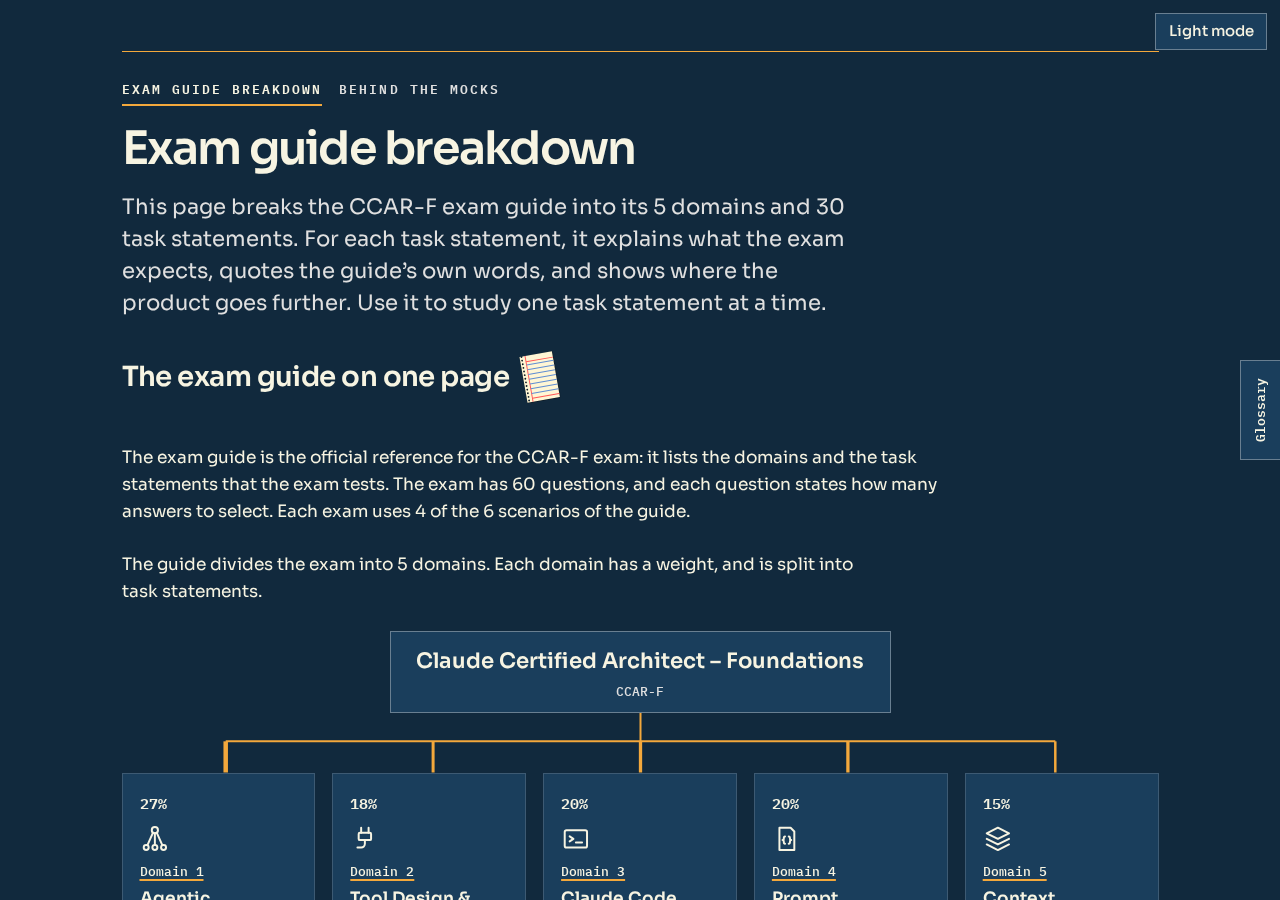
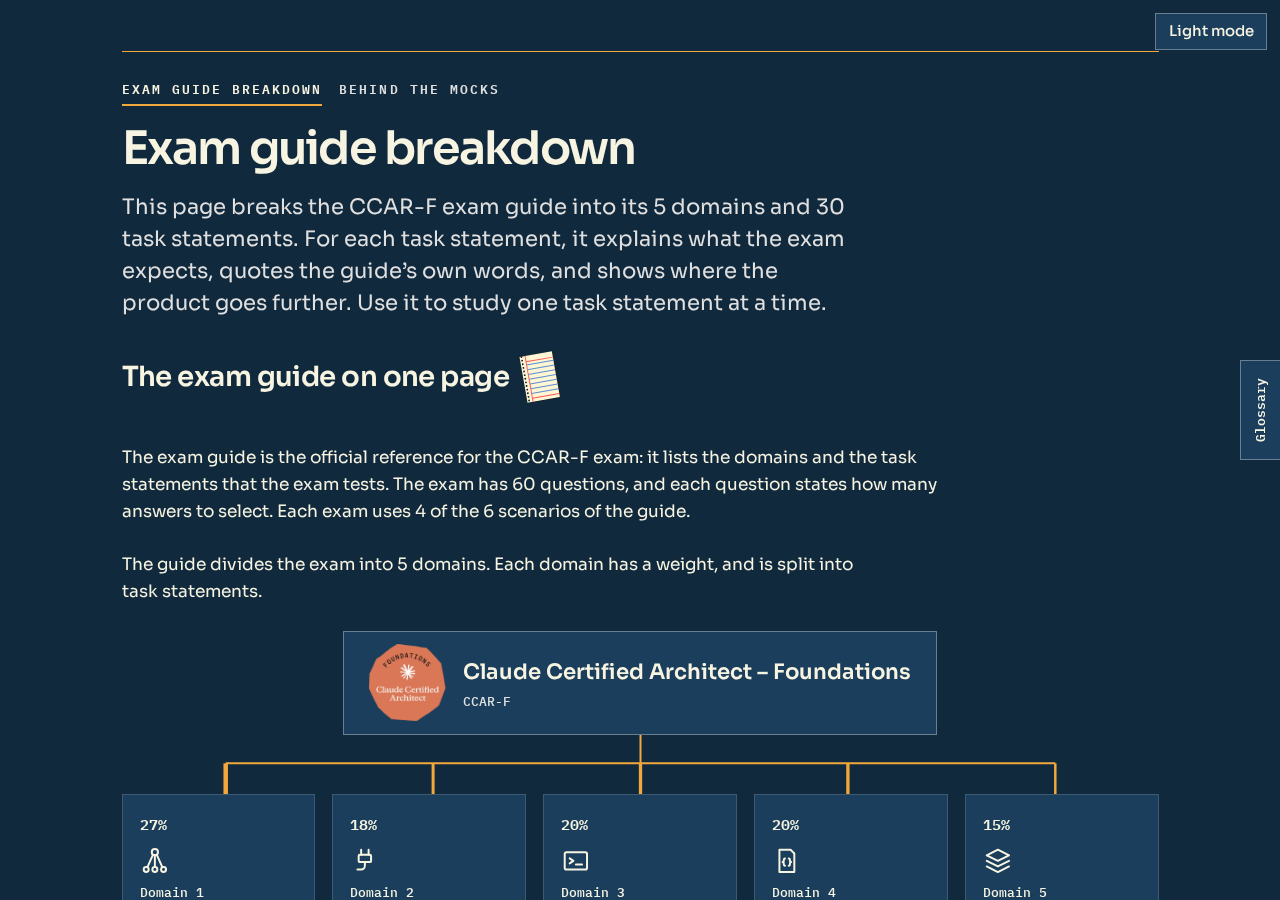
Tab 1, batch 2 of the notes of the owner: a dropdown arrow on the scenario rows, the CCAR-F badge in the exam box, the products as a bold list, Fig. C drawings centred, a box for newcomers, The exam tests as a list (owner, 15 October 2026). check-pages prints All checks passed for tab 1
Claude-Session: https://claude.ai/code/session_01UTkgDqrwTLkESy2KzoY348

Changed region(s): [[0.0938, 0.6844, 0.9062, 1.0]]

diff --git a/academy/pages/exam-guide-breakdown.html b/academy/pages/exam-guide-breakdown.html
@@ -204,7 +204,7 @@
   <p><span class="fact" tabindex="0" role="button" data-card="m-what">The exam guide is the official reference for the CCAR-F exam: it lists the domains and the task statements that the exam tests.</span> <span class="fact" tabindex="0" role="button" data-card="m-items">The exam has 60 questions</span>, <span class="fact" tabindex="0" role="button" data-card="m-format">and each question states how many answers to select.</span> <span class="fact" tabindex="0" role="button" data-card="m-struct">Each exam uses 4 of the 6 scenarios of the guide.</span></p>
   <p>The guide divides the exam into 5 domains. Each domain has a weight, and is split into task statements.</p>
   <figure data-figure="map">
-    <div class="exam-top"><p class="exam-node">Claude Certified Architect &ndash; Foundations <span class="ve-label">CCAR-F</span></p><svg class="exam-lines" viewBox="0 0 1000 84" preserveAspectRatio="none" aria-hidden="true" focusable="false"><path d="M500 0 V40 M100 40 H900" stroke-width="2"/><path d="M100 40 V84" stroke-width="4.5"/><path d="M300 40 V84" stroke-width="3.0"/><path d="M500 40 V84" stroke-width="3.3"/><path d="M700 40 V84" stroke-width="3.3"/><path d="M900 40 V84" stroke-width="2.5"/></svg></div>
+    <div class="exam-top"><p class="exam-node"><img class="exam-badge" src="icons/ccar-f-badge.png" alt="The badge of the Claude Certified Architect &ndash; Foundations" width="340" height="340"><span>Claude Certified Architect &ndash; Foundations <span class="ve-label">CCAR-F</span></span></p><svg class="exam-lines" viewBox="0 0 1000 84" preserveAspectRatio="none" aria-hidden="true" focusable="false"><path d="M500 0 V40 M100 40 H900" stroke-width="2"/><path d="M100 40 V84" stroke-width="4.5"/><path d="M300 40 V84" stroke-width="3.0"/><path d="M500 40 V84" stroke-width="3.3"/><path d="M700 40 V84" stroke-width="3.3"/><path d="M900 40 V84" stroke-width="2.5"/></svg></div>
     <div class="tmap"><div class="tcol"><p class="tw"><span class="fact" tabindex="0" role="button" data-card="m-d1">27%</span></p><svg class="d-icon" viewBox="0 0 24 24" aria-hidden="true" focusable="false" fill="none" stroke="currentColor" stroke-width="1.6" stroke-linecap="round" stroke-linejoin="round"><circle cx="12" cy="5" r="2.5"/><circle cx="5" cy="19" r="2"/><circle cx="12" cy="19" r="2"/><circle cx="19" cy="19" r="2"/><path d="M12 7.5V17M10.5 7l-4.5 10M13.5 7l4.5 10"/></svg><p class="ve-label"><a href="#domain-1">Domain 1</a></p><p class="tname">Agentic Architecture &amp; Orchestration</p><p class="tsum">Agents that run themselves.</p><ol class="tlist"><li><a href="#ts-1-1"><span class="pid">1.1</span> <span>The loop runs while Claude asks for tools</span></a></li><li><a href="#ts-1-2"><span class="pid">1.2</span> <span>The coordinator splits the work and routes every result</span></a></li><li><a href="#ts-1-3"><span class="pid">1.3</span> <span>A subagent sees none of the coordinator&#x27;s conversation</span></a></li><li><a href="#ts-1-4"><span class="pid">1.4</span> <span>A required order needs a code gate, not a prompt</span></a></li><li><a href="#ts-1-5"><span class="pid">1.5</span> <span>Hooks block a tool call or clean its result</span></a></li><li><a href="#ts-1-6"><span class="pid">1.6</span> <span>Chain fixed steps for known work, adapt for open work</span></a></li><li><a href="#ts-1-7"><span class="pid">1.7</span> <span>Resume valid context, fork to compare, restart when stale</span></a></li></ol></div><div class="tcol"><p class="tw"><span class="fact" tabindex="0" role="button" data-card="m-d2">18%</span></p><svg class="d-icon" viewBox="0 0 24 24" aria-hidden="true" focusable="false" fill="none" stroke="currentColor" stroke-width="1.6" stroke-linecap="round" stroke-linejoin="round"><path d="M9 3v4M15 3v4"/><rect x="7" y="7" width="10" height="6" rx="1"/><path d="M12 13v3a3 3 0 0 1-3 3H6"/></svg><p class="ve-label"><a href="#domain-2">Domain 2</a></p><p class="tname">Tool Design &amp; MCP Integration</p><p class="tsum">Tools that Claude can use well.</p><ol class="tlist"><li><a href="#ts-2-1"><span class="pid">2.1</span> <span>The description decides which tool Claude picks</span></a></li><li><a href="#ts-2-2"><span class="pid">2.2</span> <span>Errors must say what failed and whether a retry helps</span></a></li><li><a href="#ts-2-3"><span class="pid">2.3</span> <span>Give each agent only the tools that its role needs</span></a></li><li><a href="#ts-2-4"><span class="pid">2.4</span> <span>Share MCP servers in .mcp.json, with secrets in variables</span></a></li><li><a href="#ts-2-5"><span class="pid">2.5</span> <span>Grep finds content, Glob finds files, Edit needs unique text</span></a></li></ol></div><div class="tcol"><p class="tw"><span class="fact" tabindex="0" role="button" data-card="m-d3">20%</span></p><svg class="d-icon" viewBox="0 0 24 24" aria-hidden="true" focusable="false" fill="none" stroke="currentColor" stroke-width="1.6" stroke-linecap="round" stroke-linejoin="round"><rect x="3" y="5" width="18" height="14" rx="1.5"/><path d="M7 10l3 2-3 2M12 15h5"/></svg><p class="ve-label"><a href="#domain-3">Domain 3</a></p><p class="tname">Claude Code Configuration &amp; Workflows</p><p class="tsum">Claude Code for a team.</p><ol class="tlist"><li><a href="#ts-3-1"><span class="pid">3.1</span> <span>Team instructions live in the project CLAUDE.md, split into files</span></a></li><li><a href="#ts-3-2"><span class="pid">3.2</span> <span>Share skills through the repository, and set how they run</span></a></li><li><a href="#ts-3-3"><span class="pid">3.3</span> <span>A rule with a glob loads only for matching files</span></a></li><li><a href="#ts-3-4"><span class="pid">3.4</span> <span>Plan first when the change is big or unclear</span></a></li><li><a href="#ts-3-5"><span class="pid">3.5</span> <span>Refine with examples, failing tests and an interview</span></a></li><li><a href="#ts-3-6"><span class="pid">3.6</span> <span>In CI, run <code>claude -p</code> with a schema and context</span></a></li></ol></div><div class="tcol"><p class="tw"><span class="fact" tabindex="0" role="button" data-card="m-d4">20%</span></p><svg class="d-icon" viewBox="0 0 24 24" aria-hidden="true" focusable="false" fill="none" stroke="currentColor" stroke-width="1.6" stroke-linecap="round" stroke-linejoin="round"><path d="M6 3h9l3 3v15H6z"/><path d="M10.5 10c-1 0-1 .8-1 1.6s0 1.4-1 1.4c1 0 1 .6 1 1.4s0 1.6 1 1.6M13.5 10c1 0 1 .8 1 1.6s0 1.4 1 1.4c-1 0-1 .6-1 1.4s0 1.6-1 1.6"/></svg><p class="ve-label"><a href="#domain-4">Domain 4</a></p><p class="tname">Prompt Engineering &amp; Structured Output</p><p class="tsum">Prompts that give reliable output.</p><ol class="tlist"><li><a href="#ts-4-1"><span class="pid">4.1</span> <span>Name what to report, not how careful to be</span></a></li><li><a href="#ts-4-2"><span class="pid">4.2</span> <span>Few-shot examples fix what instructions alone leave inconsistent</span></a></li><li><a href="#ts-4-3"><span class="pid">4.3</span> <span>A schema guarantees the form, not the values</span></a></li><li><a href="#ts-4-4"><span class="pid">4.4</span> <span>Retry with the exact errors, but not for missing facts</span></a></li><li><a href="#ts-4-5"><span class="pid">4.5</span> <span>Batch only the work that can wait a day</span></a></li><li><a href="#ts-4-6"><span class="pid">4.6</span> <span>A new instance reviews each file, then the files together</span></a></li></ol></div><div class="tcol"><p class="tw"><span class="fact" tabindex="0" role="button" data-card="m-d5">15%</span></p><svg class="d-icon" viewBox="0 0 24 24" aria-hidden="true" focusable="false" fill="none" stroke="currentColor" stroke-width="1.6" stroke-linecap="round" stroke-linejoin="round"><path d="M12 3l9 4.5-9 4.5-9-4.5z"/><path d="M3 12l9 4.5 9-4.5M3 16.5l9 4.5 9-4.5"/></svg><p class="ve-label"><a href="#domain-5">Domain 5</a></p><p class="tname">Context Management &amp; Reliability</p><p class="tsum">Reliable systems.</p><ol class="tlist"><li><a href="#ts-5-1"><span class="pid">5.1</span> <span>Pin exact facts outside the summary, and trim the rest</span></a></li><li><a href="#ts-5-2"><span class="pid">5.2</span> <span>Escalate on explicit criteria, not on mood or confidence</span></a></li><li><a href="#ts-5-3"><span class="pid">5.3</span> <span>A failed subagent reports what failed, never a silent empty</span></a></li><li><a href="#ts-5-4"><span class="pid">5.4</span> <span>Keep findings in files, keep exploration in subagents</span></a></li><li><a href="#ts-5-5"><span class="pid">5.5</span> <span>Trust confidence scores only after labeled data calibrates them</span></a></li><li><a href="#ts-5-6"><span class="pid">5.6</span> <span>Each claim keeps its source, date and conflicts</span></a></li></ol></div></div>
     <figcaption><span class="fig-n">Fig. A</span>The exam, its 5 domains and their 30 task statements. Each line is as thick as the weight of its domain. <span class="fact" tabindex="0" role="button" data-card="m-weights">A weight is the approximate share of the scored questions.</span> Each task statement shows its takeaway heading and opens below.</figcaption>
   </figure>
@@ -232,12 +232,24 @@
     <li><span class="chip guide">Guide only</span> ends a point that the documentation does not state, or states differently. The sentence before it often says what the documentation says. For the exam, answer as the guide says.</li>
     <li>A box with <b>For the exam</b> and <b>The product today</b> appears where the difference could change your answer. It gives both answers side by side.</li>
   </ul>
-  <p>New to the Claude API or Claude Code? Read <a href="#primer">Before you start</a> first.</p>
-  <p>&ldquo;The exam tests&rdquo; quotes the appendix of the guide (its section 17). The appendix lists the technologies and concepts that might appear on the exam. It also lists the topics that the exam covers and the topics that it does not cover. The block also names the sample questions of the guide for the task statement, and how many questions of the 5 mocks test it.</p>
+  <div class="callout newcomer"><p><b>New to the Claude API or Claude Code?</b> Read <a href="#primer">Before you start</a> first. It shows the products of the exam and who runs the tools in each.</p></div>
+  <p>The block &ldquo;The exam tests&rdquo; in each part shows:</p>
+  <ul class="levels">
+    <li>The lines of the appendix of the guide (its section 17) for the task statement. The appendix lists the technologies and concepts that might appear on the exam, and the topics that the exam covers and does not cover.</li>
+    <li>The sample questions of the guide for the task statement.</li>
+    <li>How many questions of the 5 mocks test it.</li>
+  </ul>
 </section>
 <section class="parts" id="primer" aria-label="Before you start: who runs the tools in each product">
   <h2 class="with-icon">Before you start: who runs the tools in each product<svg class="h-icon h-tools" viewBox="0 0 24 24" aria-hidden="true" focusable="false" fill="none" stroke="currentColor" stroke-width="1.8" stroke-linecap="round" stroke-linejoin="round"><path d="M9 7V5.5A1.5 1.5 0 0 1 10.5 4h3A1.5 1.5 0 0 1 15 5.5V7"/><rect x="3" y="7" width="18" height="12" rx="1.5"/><path d="M3 12h18"/><path d="M10 12v2h4v-2"/></svg></h2>
-  <p>The exam asks about three products and one protocol. Fig. C shows who runs the tools in each. The button Glossary at the right edge of the screen explains the words of this tab.</p>
+  <p>The exam asks about three products and one protocol:</p>
+  <ul class="levels">
+    <li><b>Claude API</b>, a product</li>
+    <li><b>Claude Code</b>, a product</li>
+    <li><b>Agent SDK</b>, a product</li>
+    <li><b>MCP</b> (Model Context Protocol), a protocol</li>
+  </ul>
+  <p>Fig. C shows who runs the tools in each. The button Glossary at the right edge of the screen explains the words of this tab.</p>
   <figure><div class="cases"><div class="case" data-st="info"><span class="chip info">Your code or Anthropic</span><h3>Claude API</h3><svg class="ve-mini" viewBox="0 0 240 150" role="img" aria-label="In the Claude API, Claude returns a tool call. Your code runs a client tool. Anthropic runs a server tool."><g class="ve-n"><rect class="sh" x="2" y="2" width="236" height="44" rx="0"/><text x="120" y="14">Claude</text><text class="sub" x="120" y="36">returns a tool call</text></g><path class="ve-e" d="M60 46V60"/><path class="ve-e" d="M180 46V60"/><g class="ve-n is-st"><rect class="sh" x="2" y="62" width="114" height="86" rx="0"/><text x="59" y="95">Your code</text><text class="sub" x="59" y="117">client tool</text></g><g class="ve-n is-st"><rect class="sh" x="124" y="62" width="114" height="86" rx="0"/><text x="181" y="95">Anthropic</text><text class="sub" x="181" y="117">server tool</text></g></svg><p class="cap"><span class="fact" tabindex="0" role="button" data-card="pr-api">Claude returns a tool call. Your code runs a client tool, and Anthropic runs a server tool.</span> <span class="fact" tabindex="0" role="button" data-card="pr-api2">A tool that Anthropic defines, such as bash, is also a client tool.</span></p></div><div class="case" data-st="info"><span class="chip info">Your computer, by default</span><h3>Claude Code</h3><svg class="ve-mini" viewBox="0 0 240 150" role="img" aria-label="Claude Code is the layer around the model. It gives the tools and runs them, by default on your computer."><g class="ve-n"><rect class="sh" x="2" y="2" width="236" height="44" rx="0"/><text x="120" y="14">Claude</text><text class="sub" x="120" y="36">the model reasons</text></g><path class="ve-e" d="M120 46V60"/><g class="ve-n is-st"><rect class="sh" x="2" y="62" width="236" height="86" rx="0"/><text x="120" y="95">Claude Code</text><text class="sub" x="120" y="117">runs the tools</text></g></svg><p class="cap"><span class="fact" tabindex="0" role="button" data-card="pr-cc">Claude Code is the layer around the model that gives the tools and manages the context.</span> <span class="fact" tabindex="0" role="button" data-card="pr-cc3">By default, it runs on your computer.</span></p></div><div class="case" data-st="info"><span class="chip info">Your code</span><h3>Agent SDK</h3><svg class="ve-mini" viewBox="0 0 240 150" role="img" aria-label="The Agent SDK puts the agentic loop of Claude Code into your own code. The SDK runs each tool that Claude asks for."><g class="ve-n"><rect class="sh" x="2" y="2" width="236" height="44" rx="0"/><text x="120" y="14">Claude</text><text class="sub" x="120" y="36">the model reasons</text></g><path class="ve-e" d="M120 46V60"/><g class="ve-n is-st"><rect class="sh" x="2" y="62" width="236" height="86" rx="0"/><text x="120" y="95">Your code, with the SDK</text><text class="sub" x="120" y="117">runs the tools</text></g></svg><p class="cap"><span class="fact" tabindex="0" role="button" data-card="pr-sdk">The Agent SDK puts the agentic loop of Claude Code into your own code, with control over tools, permissions, cost limits and output.</span> <span class="fact" tabindex="0" role="button" data-card="pr-sdk2">The SDK runs each tool that Claude asks for.</span></p></div><div class="case" data-st="info"><span class="chip info">An MCP server</span><h3>MCP, a protocol</h3><svg class="ve-mini" viewBox="0 0 240 150" role="img" aria-label="MCP is an open source standard. An MCP server gives Claude Code or an agent of the Agent SDK access to your tools, databases and APIs."><g class="ve-n"><rect class="sh" x="2" y="2" width="236" height="44" rx="0"/><text x="120" y="14">Claude Code or SDK</text><text class="sub" x="120" y="36">calls a tool</text></g><path class="ve-e" d="M120 46V60"/><g class="ve-n is-st"><rect class="sh" x="2" y="62" width="236" height="86" rx="0"/><text x="120" y="95">MCP server</text><text class="sub" x="120" y="117">runs the tool</text></g></svg><p class="cap"><span class="fact" tabindex="0" role="button" data-card="pr-mcp">MCP (Model Context Protocol) is an open source standard. An MCP server gives Claude Code access to your tools, databases and APIs.</span> <span class="fact" tabindex="0" role="button" data-card="pr-mcp2">An agent of the Agent SDK can use MCP too.</span></p></div></div><figcaption><span class="fig-n">Fig. C</span>Three products and one protocol of the exam, and who runs the tools in each.</figcaption></figure>
 </section>
 <section class="parts" id="domain-1" aria-label="Domain 1"><h2>Domain 1: Agentic Architecture &amp; Orchestration</h2><p class="ve-label"><span class="fact" tabindex="0" role="button" data-card="m-d1">about 27%</span> of the scored questions &middot; 7 task statements</p><p>Agents that run themselves: the loop of tool calls, a coordinator with subagents, how subagents start and what each one gets. It also covers workflows with enforced steps and handoffs, hooks of the Agent SDK, how to split a task, and sessions that resume or fork.</p><details class="part" id="ts-1-1"><summary><span class="pn">1.1</span><span><h3>The loop runs while Claude asks for tools</h3></span><span class="mm"><span class="more" aria-hidden="true"></span></span></summary><div class="body"><section data-level="overview" aria-label="Overview"><p class="lvl1">Overview &middot; 30 seconds</p><p class="gtitle"><span class="fact" tabindex="0" role="button" data-card="ts-1-1-title">&ldquo;Design and implement agentic loops for autonomous task execution&rdquo;</span></p><p class="lead">Your code sends a request to Claude and checks the field <code>stop_reason</code> of the response. <b class="ve-ref" data-ref="tool" tabindex="0"><code>"tool_use"</code>: run the tool and send the result back.</b> <b class="ve-ref" data-ref="end" tabindex="0"><code>"end_turn"</code>: stop.</b></p><figure class="ve-steps" id="ts-1-1-fig1">

diff --git a/academy/pages/academy.css b/academy/pages/academy.css
@@ -315,7 +315,7 @@ ol.checks { display: grid; gap: var(--s-2); padding-left: 1.5rem; max-width: 65c
 #ts-1-1 .cases { grid-template-columns: repeat(auto-fit, minmax(16.5rem, 1fr)); }
 #primer .cases { grid-template-columns: repeat(2, minmax(0, 1fr)); }
 @media (max-width: 34rem) { #primer .cases { grid-template-columns: minmax(0, 1fr); } }
-#map, #breakdown { display: grid; gap: var(--s-5); grid-template-columns: minmax(0, 1fr); }
+#map, #breakdown, #primer { display: grid; gap: var(--s-5); grid-template-columns: minmax(0, 1fr); }
 section.parts[id^="domain-"] > p { margin-bottom: var(--s-4); }
 .beyond { padding-left: var(--s-5); display: grid; gap: var(--s-2); }
 .ve-e.no-head { marker-end: none; }
@@ -399,8 +399,8 @@ h2.with-icon { display: flex; align-items: center; gap: var(--s-3); }
 .poplinks { display: flex; flex-wrap: wrap; gap: var(--s-2) var(--s-4); margin-top: var(--s-2); font-size: var(--t-small); }   /* the links in a popup of Fig. A (owner, 15 October 2026) */
 /* the scenario rows that open the text of the guide, and the list of the three levels (owner, 15 October 2026) */
 .scen-toggle { display: inline-flex; align-items: baseline; gap: var(--s-2); background: none; border: 0; padding: 0; font: inherit; color: inherit; text-align: left; cursor: pointer; }
-.scen-toggle::after { content: '+'; font: 600 var(--t-label) var(--font-mono); color: var(--text-dim); margin-left: var(--s-2); }
-.scen-toggle[aria-expanded="true"]::after { content: '\2212'; }
+.scen-toggle::after { content: ''; width: .55rem; height: .55rem; margin-left: var(--s-3); border-right: 2.5px solid var(--accent); border-bottom: 2.5px solid var(--accent); transform: translateY(-.15rem) rotate(45deg); transition: transform var(--fast) var(--ease); flex: none; align-self: center; }
+.scen-toggle[aria-expanded="true"]::after { transform: translateY(.1rem) rotate(-135deg); }   /* a dropdown arrow, which turns when the row is open (owner, 15 October 2026) */
 .scen-toggle:hover { text-decoration: underline; text-decoration-color: var(--gold); }
 tr.scen-detail td { background: var(--surface); padding: var(--s-3) var(--s-4) var(--s-4); }
 tr.scen-detail p { max-width: 65ch; margin-bottom: var(--s-2); }
@@ -421,3 +421,8 @@ ul.levels { padding-left: var(--s-5); display: grid; gap: var(--s-1); max-width:
 /* "Knowledge of" and "Skills in" in running text, in the colours of the K and S labels (owner, 15 October 2026) */
 .kw-k, .kw-s { font-weight: 600; padding: 0 .3rem; border-radius: var(--r-1); }
 .kw-k { background: var(--k); color: var(--on-k); } .kw-s { background: var(--s); color: var(--on-s); }
+/* batch 2 of the notes of the owner (15 October 2026): the badge in the exam box, the drawings of Fig. C in the middle of their cards, the box for newcomers */
+.exam-node { display: flex; align-items: center; gap: var(--s-4); text-align: left; }
+.exam-badge { width: 4.5rem; height: 4.5rem; flex: none; }
+#primer .case svg.ve-mini { margin-inline: auto; }
+.callout.newcomer { max-width: 65ch; border-color: var(--gold); }

diff --git a/academy/build/make-exam-guide-breakdown.py b/academy/build/make-exam-guide-breakdown.py
@@ -2852,7 +2852,8 @@ def exam_tree():
     # one trunk from the box and one bar across, both thin, and one drop to each column as thick as its weight (owner, 15 October 2026)
     lines = '<path d="M500 0 V40 M100 40 H900" stroke-width="2"/>' + "".join(
         '<path d="M%d 40 V84" stroke-width="%.1f"/>' % (100 + 200 * i, DOM[i + 1]["weight"] / 6) for i in range(5))
-    return ('<div class="exam-top"><p class="exam-node">Claude Certified Architect &ndash; Foundations <span class="ve-label">CCAR-F</span></p>'
+    return ('<div class="exam-top"><p class="exam-node"><img class="exam-badge" src="icons/ccar-f-badge.png" alt="The badge of the Claude Certified Architect &ndash; Foundations" width="340" height="340">'
+            '<span>Claude Certified Architect &ndash; Foundations <span class="ve-label">CCAR-F</span></span></p>'
             '<svg class="exam-lines" viewBox="0 0 1000 84" preserveAspectRatio="none" aria-hidden="true" focusable="false">%s</svg></div>' % lines)
 
 
@@ -2987,8 +2988,13 @@ BREAKDOWN = """<section class="parts" id="breakdown" aria-label="How we broke it
     <li><span class="chip guide">Guide only</span> ends a point that the documentation does not state, or states differently. The sentence before it often says what the documentation says. For the exam, answer as the guide says.</li>
     <li>A box with <b>For the exam</b> and <b>The product today</b> appears where the difference could change your answer. It gives both answers side by side.</li>
   </ul>
-  <p>New to the Claude API or Claude Code? Read <a href="#primer">Before you start</a> first.</p>
-  <p>&ldquo;The exam tests&rdquo; quotes the appendix of the guide (its section 17). The appendix lists the technologies and concepts that might appear on the exam. It also lists the topics that the exam covers and the topics that it does not cover. The block also names the sample questions of the guide for the task statement, and how many questions of the 5 mocks test it.</p>
+  <div class="callout newcomer"><p><b>New to the Claude API or Claude Code?</b> Read <a href="#primer">Before you start</a> first. It shows the products of the exam and who runs the tools in each.</p></div>
+  <p>The block &ldquo;The exam tests&rdquo; in each part shows:</p>
+  <ul class="levels">
+    <li>The lines of the appendix of the guide (its section 17) for the task statement. The appendix lists the technologies and concepts that might appear on the exam, and the topics that the exam covers and does not cover.</li>
+    <li>The sample questions of the guide for the task statement.</li>
+    <li>How many questions of the 5 mocks test it.</li>
+  </ul>
 </section>""" % {"puzzle": PUZZLE_ICON, "lab": lab("1.1-K2"), "k2": lab("4.3-K2"), "s2": lab("4.3-S2"), "count": fact("m-count", "The guide has %d task statements with %d points: %d Knowledge of and %d Skills in." % (len(TS), N_PTS, N_K, N_S))}
 CARD["m-count"] = {"title": "The exam guide as records", "kind": "count",
                    "text": "reference/guide-records.json has %d task statements and %d points: %d of kind knowledge and %d of kind skill. The script of this page counted them." % (len(TS), N_PTS, N_K, N_S),
@@ -3098,7 +3104,14 @@ GLOSSARY = glossary_panel('<dl class="glossary">%s</dl>' % "".join("<dt>%s</dt><
                           '<p>The blocks &ldquo;In the mock builder&rdquo; use the words of tab 2. <a href="%s#top-words">Glossary of tab 2 &rarr;</a></p>' % TAB2)
 PRIMER = """<section class="parts" id="primer" aria-label="Before you start: who runs the tools in each product">
   <h2 class="with-icon">Before you start: who runs the tools in each product<svg class="h-icon h-tools" viewBox="0 0 24 24" aria-hidden="true" focusable="false" fill="none" stroke="currentColor" stroke-width="1.8" stroke-linecap="round" stroke-linejoin="round"><path d="M9 7V5.5A1.5 1.5 0 0 1 10.5 4h3A1.5 1.5 0 0 1 15 5.5V7"/><rect x="3" y="7" width="18" height="12" rx="1.5"/><path d="M3 12h18"/><path d="M10 12v2h4v-2"/></svg></h2>
-  <p>The exam asks about three products and one protocol. Fig. C shows who runs the tools in each. The button Glossary at the right edge of the screen explains the words of this tab.</p>
+  <p>The exam asks about three products and one protocol:</p>
+  <ul class="levels">
+    <li><b>Claude API</b>, a product</li>
+    <li><b>Claude Code</b>, a product</li>
+    <li><b>Agent SDK</b>, a product</li>
+    <li><b>MCP</b> (Model Context Protocol), a protocol</li>
+  </ul>
+  <p>Fig. C shows who runs the tools in each. The button Glossary at the right edge of the screen explains the words of this tab.</p>
   %(fig)s
 </section>""" % {"fig": FIGC, "n": len(GLOSS), "tab2": TAB2, "gloss": "".join("<dt>%s</dt><dd>%s</dd>" % (e(k), v) for k, v in GLOSS)}
 

diff --git a/academy/journal.md b/academy/journal.md
@@ -22,6 +22,7 @@ One entry for each work session. Newest entry first.
 - Tab 1: the lines of Fig. A are now one thin trunk from the box, one thin bar across, and a drop to each column as thick as its weight, as in the sketch of the owner. The caption of Fig. B says what the table shows: no scenario covers all 5 domains, domain 5 is primary in 4 scenarios and domain 4 in 2 (owner, 15 October 2026).
 - Tab 1, "How we broke it down": two paragraphs explain "Knowledge of" and "Skills in", each name in the colour of its label, with the examples 4.3-K2 and 4.3-S2. The guide, not this page, puts each point in one of the two lists (owner, 15 October 2026).
 - Tab 1: the two paragraphs about the label "Guide only" and the box are now one list, "Two marks show where the guide and the Anthropic documentation differ". The popup of the label uses the same words. Batch 1 of the notes of the owner is done (owner, 15 October 2026).
+- Batch 2 of the notes of the owner, built at once: a dropdown arrow on each scenario row, the CCAR-F badge of the owner (academy/pages/icons/ccar-f-badge.png, moved from the root folder) in the exam box, the three products and the protocol as a bold list, the drawings of Fig. C in the middle of their cards, a box for newcomers, and the block "The exam tests" as a list (owner, 15 October 2026).
 - Tab 2, Fig. A: each of the 10 boxes opens a popup: what the step takes in and gives out, one fact of the records, links to the task statements that the step uses, and a link to the step. A click no longer jumps to the step. One switch, FIG_A_POPUPS in make-behind-the-mocks.py, brings back the old figure (owner, 15 October 2026). An independent agent checked the popups and found 2 false sentences (code does not make the ideas, and mocks 2 to 4 marked a sample of 20), now fixed.
 - Tab 1: the primer heading is now "Before you start: who runs the tools in each product", because the glossary left the section (decision 0044). A toolbox mark, drawn for it in the colour of the text, stands on its right (owner, 15 October 2026).
 - Tab 1: the notepad mark of the owner (`academy/pages/icons/notepad.svg`, moved from the root folder) stands on the right of the heading "The exam guide on one page", in its own colours, at 1.75 times the text height, tilted by 10 degrees. The page draws it inline with every third ruled line and thicker lines, so the lines show at heading size (owner, 15 October 2026).
